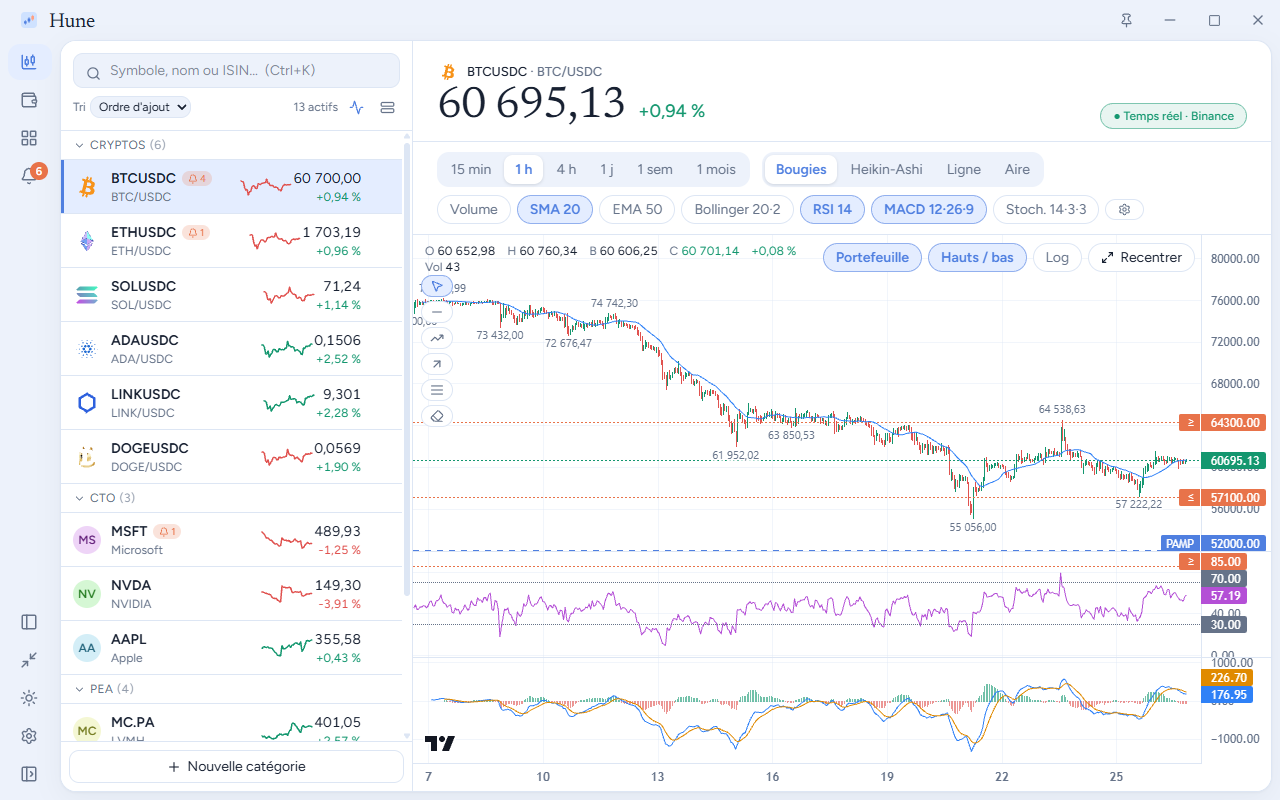
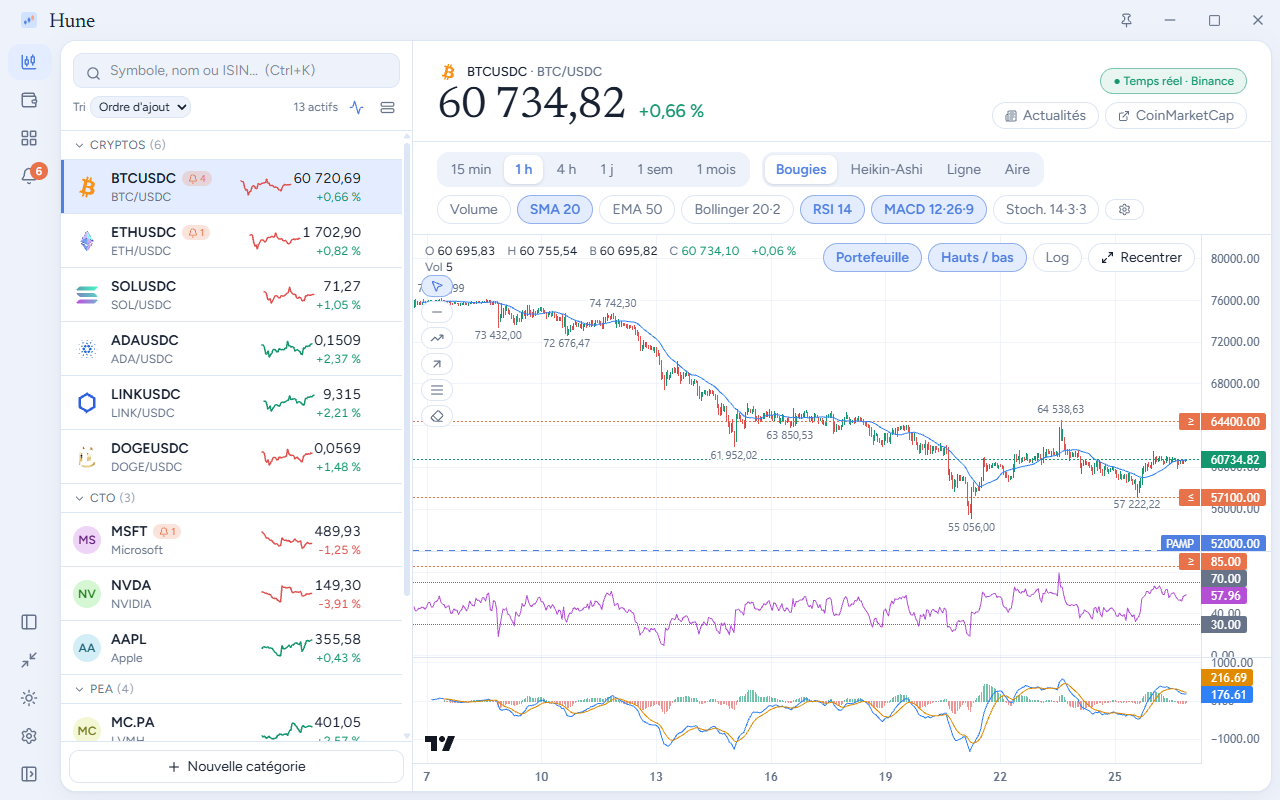
0.11.0 : liens actualites/fiche, alerte TP automatique, nom d'actif plus lisible

diff --git a/src/liens.ts b/src/liens.ts
@@ -1,0 +1,46 @@
+import type { Actif } from "./donnees/types";
+import { baseCrypto } from "./icones";
+
+/**
+ * Liens externes d'un actif. Rien n'est téléchargé : Hune n'ouvre le lien dans le navigateur qu'au clic,
+ * et seul le symbole de l'actif figure dans l'adresse.
+ */
+export interface LienExterne {
+  /** Libellé du bouton. */
+  libelle: string;
+  /** Infobulle : où le lien mène. */
+  aide: string;
+  url: string;
+}
+
+/** Page CoinMarketCap de quelques dizaines de jetons courants (chaque adresse a été vérifiée) ; les autres passent par la recherche CoinGecko. */
+const CMC: Record<string, string> = {
+  BTC: "bitcoin", ETH: "ethereum", BNB: "bnb", SOL: "solana", XRP: "xrp", ADA: "cardano", DOGE: "dogecoin", TRX: "tron", LINK: "chainlink", DOT: "polkadot-new",
+  AVAX: "avalanche", LTC: "litecoin", BCH: "bitcoin-cash", XLM: "stellar", ATOM: "cosmos", UNI: "uniswap", NEAR: "near-protocol", ICP: "internet-computer",
+  SHIB: "shiba-inu", PEPE: "pepe", AAVE: "aave", CRV: "curve-dao-token", ETC: "ethereum-classic", GRT: "the-graph", RENDER: "render", RNDR: "render",
+  SAND: "the-sandbox", SUI: "sui", VET: "vechain", MINA: "mina", NEXO: "nexo", OSMO: "osmosis", POL: "polygon-ecosystem-token", MATIC: "polygon-ecosystem-token",
+  FET: "artificial-superintelligence-alliance", ASI: "artificial-superintelligence-alliance", DYDX: "dydx-chain", EDU: "edu-coin", EGLD: "multiversx-egld",
+  ENS: "ethereum-name-service", ETHFI: "ether-fi-ethfi", STRK: "starknet-token", TRB: "tellor", HBAR: "hedera", CRO: "cronos", APT: "aptos", ARB: "arbitrum",
+  INJ: "injective", MKR: "maker", ALGO: "algorand", FIL: "filecoin", XMR: "monero", EOS: "eos", XTZ: "tezos", THETA: "theta-network", AXS: "axie-infinity",
+  MANA: "decentraland", GALA: "gala", IMX: "immutable-x", LDO: "lido-dao", FTM: "fantom", PYTH: "pyth-network", JUP: "jupiter-ag", BONK: "bonk",
+  WIF: "dogwifhat", FLOKI: "floki", COMP: "compound", AR: "arweave", HNT: "helium",
+};
+
+/** Liens « actualités » et « fiche » d'un actif : Yahoo Finance pour les titres, Yahoo Finance + CoinMarketCap pour les cryptos. */
+export function liensExternes(actif: Pick<Actif, "source" | "symbole" | "nom">): LienExterne[] {
+  const base = baseCrypto(actif);
+  if (base) {
+    const slug = CMC[base];
+    return [
+      { libelle: "Actualités", aide: `Actualités de ${base} sur Yahoo Finance (s'ouvre dans votre navigateur)`, url: `https://finance.yahoo.com/quote/${encodeURIComponent(base)}-USD/news/` },
+      slug
+        ? { libelle: "CoinMarketCap", aide: `Fiche de ${base} sur CoinMarketCap (s'ouvre dans votre navigateur)`, url: `https://coinmarketcap.com/currencies/${slug}/` }
+        : { libelle: "Fiche du jeton", aide: `Rechercher ${base} sur CoinGecko (s'ouvre dans votre navigateur)`, url: `https://www.coingecko.com/en/search?query=${encodeURIComponent(base)}` },
+    ];
+  }
+  const s = encodeURIComponent(actif.symbole);
+  return [
+    { libelle: "Actualités", aide: `Actualités de ${actif.symbole} sur Yahoo Finance (s'ouvre dans votre navigateur)`, url: `https://finance.yahoo.com/quote/${s}/news/` },
+    { libelle: "Fiche", aide: `Fiche de ${actif.symbole} sur Yahoo Finance (s'ouvre dans votre navigateur)`, url: `https://finance.yahoo.com/quote/${s}/` },
+  ];
+}

diff --git a/src/alertes/tp-auto.test.ts b/src/alertes/tp-auto.test.ts
@@ -1,0 +1,51 @@
+import { describe, expect, it } from "vitest";
+import type { Actif } from "../donnees/types";
+import type { Position } from "../portefeuille";
+import type { Alerte } from "./moteur";
+import { synchroniserAlertesTp } from "./tp-auto";
+
+const actif: Actif = { source: "yahoo", symbole: "TTWO", nom: "Take-Two" };
+const cle = "yahoo:TTWO";
+const lot = (objectif?: number, id = "l1"): Position => ({ id, cle, quantite: 1, objectif });
+const prix = () => 227;
+const sync = (avant: Position[], apres: Position[], alertes: Alerte[] = [], p: (c: string) => number | undefined = prix) => synchroniserAlertesTp(avant, apres, alertes, [actif], p, 1000);
+
+describe("alertes TP automatiques", () => {
+  it("crée une alerte « prix ≥ objectif » quand on saisit un objectif au-dessus du prix", () => {
+    const r = sync([lot()], [lot(250)]);
+    expect(r).toHaveLength(1);
+    expect(r[0]).toMatchObject({ statut: "armee", tpLot: "l1", condition: { type: "prix", sens: "au-dessus", seuil: 250 } });
+  });
+
+  it("ne crée rien pour un objectif déjà atteint", () => {
+    expect(sync([lot()], [lot(225)])).toHaveLength(0);
+  });
+
+  it("remplace l'alerte du lot quand l'objectif change, sans toucher aux autres alertes", () => {
+    const manuelle: Alerte = { id: "m", actif, condition: { type: "prix", sens: "en-dessous", seuil: 100 }, statut: "armee", creeeLe: 1 };
+    const premiere = sync([lot()], [lot(250)], [manuelle]);
+    const seconde = sync([lot(250)], [lot(260)], premiere);
+    expect(seconde.map((a) => (a.condition as { seuil: number }).seuil).sort()).toEqual([100, 260]);
+  });
+
+  it("retire l'alerte quand l'objectif est effacé ou le lot supprimé", () => {
+    const avecAlerte = sync([lot()], [lot(250)]);
+    expect(sync([lot(250)], [lot(undefined)], avecAlerte)).toHaveLength(0);
+    expect(sync([lot(250)], [], avecAlerte)).toHaveLength(0);
+  });
+
+  it("garde une alerte déjà déclenchée et évite le doublon avec une alerte manuelle identique", () => {
+    const declenchee: Alerte = { id: "d", actif, condition: { type: "prix", sens: "au-dessus", seuil: 250 }, statut: "declenchee", creeeLe: 1, tpLot: "l1" };
+    expect(sync([lot(250)], [lot(260)], [declenchee]).some((a) => a.id === "d")).toBe(true);
+    const manuelle: Alerte = { id: "m", actif, condition: { type: "prix", sens: "au-dessus", seuil: 250 }, statut: "armee", creeeLe: 1 };
+    expect(sync([lot()], [lot(250)], [manuelle])).toHaveLength(1);
+  });
+
+  it("ne fait rien quand l'objectif ne change pas", () => {
+    expect(sync([lot(250)], [{ ...lot(250), quantite: 5 }])).toHaveLength(0);
+  });
+
+  it("crée l'alerte même si le prix n'est pas encore connu", () => {
+    expect(sync([lot()], [lot(250)], [], () => undefined)).toHaveLength(1);
+  });
+});

diff --git a/src/alertes/tp-auto.ts b/src/alertes/tp-auto.ts
@@ -1,0 +1,37 @@
+import { cleActif, type Actif } from "../donnees/types";
+import type { Position } from "../portefeuille";
+import type { Alerte } from "./moteur";
+
+/**
+ * Alertes créées automatiquement pour les objectifs (TP) du portefeuille.
+ * À chaque modification des positions, l'alerte « prix ≥ objectif » d'un lot suit son objectif :
+ * créée quand on saisit un objectif encore au-dessus du prix, remplacée quand on le change, retirée quand on l'efface
+ * ou qu'on supprime le lot. Seules les alertes encore armées et liées au lot (`tpLot`) sont touchées.
+ * Un objectif déjà atteint ne crée rien (l'alerte se déclencherait aussitôt pour rien), et une alerte manuelle
+ * identique évite le doublon.
+ */
+export function synchroniserAlertesTp(avant: Position[], apres: Position[], alertes: Alerte[], actifs: Actif[], prixDe: (cle: string) => number | undefined, maintenant: number): Alerte[] {
+  const avantParId = new Map(avant.map((p) => [p.id, p]));
+  const apresIds = new Set(apres.map((p) => p.id));
+  let resultat = alertes;
+  const retirer = (lotId: string) => {
+    resultat = resultat.filter((a) => !(a.tpLot === lotId && a.statut === "armee"));
+  };
+
+  for (const lot of avant) if (!apresIds.has(lot.id)) retirer(lot.id);
+
+  for (const lot of apres) {
+    const ancien = avantParId.get(lot.id);
+    if (ancien && ancien.objectif === lot.objectif && ancien.cle === lot.cle) continue;
+    retirer(lot.id);
+    if (lot.objectif == null || !(lot.objectif > 0)) continue;
+    const prix = prixDe(lot.cle);
+    if (prix != null && lot.objectif <= prix) continue;
+    const actif = actifs.find((a) => cleActif(a) === lot.cle);
+    if (!actif) continue;
+    const doublon = resultat.some((a) => a.statut === "armee" && a.condition.type === "prix" && a.condition.sens === "au-dessus" && a.condition.seuil === lot.objectif && cleActif(a.actif) === lot.cle);
+    if (doublon) continue;
+    resultat = [...resultat, { id: crypto.randomUUID(), actif, condition: { type: "prix", sens: "au-dessus", seuil: lot.objectif }, statut: "armee", creeeLe: maintenant, tpLot: lot.id }];
+  }
+  return resultat;
+}

diff --git a/src/entete.tsx b/src/entete.tsx
@@ -1,7 +1,10 @@
+import { ExternalLink, Newspaper } from "lucide-react";
 import { fournisseur } from "./donnees";
 import type { Actif, Cotation } from "./donnees/types";
 import { classePct, formaterPct, formaterPrix } from "./format";
 import { IconeActif } from "./icone-actif";
+import { liensExternes } from "./liens";
+import { ouvrirLien } from "./ouvrir-lien";
 
 /** Bandeau au-dessus du graphique : actif, prix, variation et — surtout — nature des données (temps réel ou différées). */
 export function EnteteActif({ actif, cotation, prixLive }: { actif: Actif; cotation?: Cotation; prixLive: number | null }) {
@@ -21,12 +24,21 @@ export function EnteteActif({ actif, cotation, prixLive }: { actif: Actif; cotat
           <span className={`text-lg font-medium ${classePct(cotation?.variationPct)}`}>{formaterPct(cotation?.variationPct)}</span>
         </div>
       </div>
-      <span
-        title={f.noteDonnees}
-        className={`shrink-0 rounded-full border px-3 py-1 text-xs font-medium ${f.differe ? "border-alerte/50 bg-alerte/10 text-alerte" : "border-hausse/50 bg-hausse/10 text-hausse"}`}
-      >
-        {f.differe ? "● Données différées" : "● Temps réel"} · {f.nom}
-      </span>
+      <div className="flex shrink-0 flex-col items-end gap-2">
+        <span
+          title={f.noteDonnees}
+          className={`shrink-0 rounded-full border px-3 py-1 text-xs font-medium ${f.differe ? "border-alerte/50 bg-alerte/10 text-alerte" : "border-hausse/50 bg-hausse/10 text-hausse"}`}
+        >
+          {f.differe ? "● Données différées" : "● Temps réel"} · {f.nom}
+        </span>
+        <div className="flex gap-1.5">
+          {liensExternes(actif).map((l, i) => (
+            <button key={l.url} className="puce !py-[2px] text-xs" title={l.aide} onClick={() => void ouvrirLien(l.url)}>
+              {i === 0 ? <Newspaper size={12} /> : <ExternalLink size={12} />} {l.libelle}
+            </button>
+          ))}
+        </div>
+      </div>
     </header>
   );
 }

diff --git a/src/App.tsx b/src/App.tsx
@@ -1,6 +1,7 @@
 import { Maximize2 } from "lucide-react";
 import { useCallback, useEffect, useMemo, useRef, useState } from "react";
 import { decrire, type Alerte } from "./alertes/moteur";
+import { synchroniserAlertesTp } from "./alertes/tp-auto";
 import { notifier } from "./alertes/notifier";
 import { PanneauAlertes } from "./alertes/panneau";
 import { useVerificationAlertes } from "./alertes/verification";
@@ -261,7 +262,23 @@ export default function App() {
   }, []);
 
   const changerAlertes = useCallback((modifier: (liste: Alerte[]) => Alerte[]) => setAlertes((prec) => modifier(prec)), []);
-  const changerPositions = useCallback((modifier: (liste: Position[]) => Position[]) => setPositions((prec) => modifier(prec)), []);
+  const positionsRef = useRef<Position[]>([]);
+  positionsRef.current = positions;
+  const cotationsRef = useRef<Record<string, Cotation>>({});
+  cotationsRef.current = cotations;
+  const actifsRef = useRef<Actif[]>([]);
+  actifsRef.current = actifs;
+  /** Modifie les positions ; l'alerte « prix ≥ objectif » de chaque lot suit son objectif (voir `synchroniserAlertesTp`). */
+  const changerPositions = useCallback(
+    (modifier: (liste: Position[]) => Position[]) => {
+      const avant = positionsRef.current;
+      const apres = modifier(avant);
+      positionsRef.current = apres;
+      setPositions(apres);
+      changerAlertes((l) => synchroniserAlertesTp(avant, apres, l, actifsRef.current, (cle) => cotationsRef.current[cle]?.prix, Date.now()));
+    },
+    [changerAlertes],
+  );
 
   // Déclenchement : l'alerte passe à « déclenchée » (elle ne se redéclenchera pas) et on notifie.
   const declencher = useCallback(

diff --git a/src/liens.test.ts b/src/liens.test.ts
@@ -1,0 +1,25 @@
+import { describe, expect, it } from "vitest";
+import { liensExternes } from "./liens";
+
+describe("liensExternes", () => {
+  it("action Yahoo : actualités et fiche Yahoo Finance, symbole encodé", () => {
+    const l = liensExternes({ source: "yahoo", symbole: "MC.PA", nom: "LVMH" });
+    expect(l.map((x) => x.url)).toEqual(["https://finance.yahoo.com/quote/MC.PA/news/", "https://finance.yahoo.com/quote/MC.PA/"]);
+  });
+
+  it("crypto Binance connue : actualités Yahoo (BASE-USD) et fiche CoinMarketCap", () => {
+    const l = liensExternes({ source: "binance", symbole: "FETUSDC", nom: "FET/USDC" });
+    expect(l[0].url).toBe("https://finance.yahoo.com/quote/FET-USD/news/");
+    expect(l[1]).toMatchObject({ libelle: "CoinMarketCap", url: "https://coinmarketcap.com/currencies/artificial-superintelligence-alliance/" });
+  });
+
+  it("crypto inconnue : recherche CoinGecko à défaut de fiche", () => {
+    const l = liensExternes({ source: "binance", symbole: "ZZZUSDC", nom: "ZZZ/USDC" });
+    expect(l[1].url).toBe("https://www.coingecko.com/en/search?query=ZZZ");
+  });
+
+  it("crypto Yahoo (BTC-USD) traitée comme une crypto", () => {
+    const l = liensExternes({ source: "yahoo", symbole: "BTC-USD", nom: "Bitcoin USD" });
+    expect(l[1].url).toBe("https://coinmarketcap.com/currencies/bitcoin/");
+  });
+});

diff --git a/src/vue-portefeuille.tsx b/src/vue-portefeuille.tsx
@@ -583,10 +583,12 @@ function LigneTableau({ taux, l, m, ouverte, surBascule, surOuvrir, majLot, supp
           </span>
           <button className="bg-transparent p-0 font-semibold text-texte hover:text-accent" title="Voir le graphique" onClick={surOuvrir}>
             {l.actif.symbole}
-          </button>{" "}
-          <span className="inline-block max-w-[170px] truncate align-bottom text-xs text-doux" title={l.actif.nom}>
-            {l.actif.nom}
-          </span>
+          </button>
+          {!/^[A-Z0-9]+\/[A-Z0-9]+$/.test(l.actif.nom) && (
+            <span className="ml-2 inline-block max-w-[210px] truncate align-bottom text-doux" title={l.actif.nom}>
+              {l.actif.nom}
+            </span>
+          )}
           {l.lots.length > 1 && <span className="ml-1 text-xs text-doux">({l.lots.length} lots)</span>}
         </td>
         <td className="whitespace-nowrap px-2 text-right font-mono">

diff --git a/src/ouvrir-lien.ts b/src/ouvrir-lien.ts
@@ -1,0 +1,11 @@
+import { dansTauri } from "./donnees/http";
+
+/** Ouvre une adresse dans le navigateur par défaut (application) ou dans un nouvel onglet (mode web de développement). */
+export async function ouvrirLien(url: string): Promise<void> {
+  if (dansTauri()) {
+    const { openUrl } = await import("@tauri-apps/plugin-opener");
+    await openUrl(url);
+  } else {
+    window.open(url, "_blank", "noopener,noreferrer");
+  }
+}

diff --git a/src/alertes/moteur.ts b/src/alertes/moteur.ts
@@ -29,6 +29,8 @@ export interface Alerte {
   declencheeLe?: number;
   /** Valeur mesurée au déclenchement (prix, % ou RSI), affichée dans la liste. */
   valeur?: number;
+  /** Alerte créée automatiquement pour l'objectif (TP) de ce lot du portefeuille : elle suit l'objectif. */
+  tpLot?: string;
 }
 
 /** Données dont l'évaluation a besoin ; seules celles de la condition sont lues. */

diff --git a/src-tauri/src/lib.rs b/src-tauri/src/lib.rs
@@ -139,6 +139,7 @@ pub fn run() {
         .plugin(tauri_plugin_http::init())
         .plugin(tauri_plugin_updater::Builder::new().build())
         .plugin(tauri_plugin_process::init())
+        .plugin(tauri_plugin_opener::init())
         .invoke_handler(tauri::generate_handler![lister_sauvegardes, lire_sauvegarde, donnees_presentes])
         .on_window_event(|fenetre, evenement| {
             // Croix de la fenêtre : on la masque, l'application reste dans la zone de notification.

diff --git a/README.md b/README.md
@@ -54,7 +54,7 @@ Prix, variation en %, RSI, cours qui franchit une moyenne mobile, croisement MAC
 
 ### Portefeuille
 
-Saisissez vos lots (quantité, prix d'achat moyen, objectif, plateforme) : Hune calcule la **valeur en euros ou en dollars** (bascule d'un clic, choix mémorisé, conversion des devises), le **P&L latent**, le poids de chaque ligne, la distance à l'objectif et la répartition par catégorie et par plateforme. Un bouton crée les alertes aux objectifs en un clic. Vous avez un historique d'achats et de ventes (export CoinMarketCap, courtier, exchange) ? **Importez le CSV** : Hune reconstitue quantités et prix d'achat moyens, et vous montre le résultat avant d'écrire quoi que ce soit.
+Saisissez vos lots (quantité, prix d'achat moyen, objectif, plateforme) : Hune calcule la **valeur en euros ou en dollars** (bascule d'un clic, choix mémorisé, conversion des devises), le **P&L latent**, le poids de chaque ligne, la distance à l'objectif et la répartition par catégorie et par plateforme. Chaque objectif crée tout seul son alerte « prix ≥ objectif » (elle suit l'objectif si vous le modifiez), et un bouton crée celles des objectifs déjà saisis. Le PAMP et l'objectif se saisissent en euros ou en dollars, quelle que soit la devise de cotation de l'actif. Vous avez un historique d'achats et de ventes (export CoinMarketCap, courtier, exchange) ? **Importez le CSV** : Hune reconstitue quantités et prix d'achat moyens, et vous montre le résultat avant d'écrire quoi que ce soit.
 
 Un **graphique de l'évolution de la valeur** (24 h à tout l'historique, reconstitué localement à partir de vos transactions et des cours), la variation du jour, la **base de coût**, la meilleure et la moins bonne performance, un **filtre par plateforme** (Ledger, PEA, exchange…) et un onglet **Transactions** (avec le **gain réalisé** de chaque vente) complètent la vue ; répartition en **camembert**, et **export CSV** des positions et des transactions pour Excel. Les cryptos s'affichent avec leur **icône**, embarquée dans l'application : aucune image n'est téléchargée, donc rien ne révèle ce que vous suivez.
 
@@ -117,7 +117,7 @@ Vous avez déjà vos positions dans un tableur ? Voir [`scripts/importer-excel.p
 
 ## Confidentialité et réseau
 
-Hune ne contacte que des services publics de données, **sans jamais leur envoyer d'information vous concernant** : Binance (prix crypto), Yahoo Finance (actions et devises), alternative.me (indice Fear & Greed) et GitHub (recherche de mises à jour). Vos données sont dans `%APPDATA%\io.github.nestyxx.hune\hune.json`. Détails dans [SECURITY.md](SECURITY.md).
+Hune ne contacte que des services publics de données, **sans jamais leur envoyer d'information vous concernant** : Binance (prix crypto), Yahoo Finance (actions et devises), alternative.me (indice Fear & Greed) et GitHub (recherche de mises à jour). Les boutons **Actualités** et **CoinMarketCap / Fiche** au-dessus du graphique n'envoient rien d'eux-mêmes : ils ouvrent la page de l'actif (Yahoo Finance, CoinMarketCap, CoinGecko) dans votre navigateur, seulement quand vous cliquez, avec le symbole pour seule information. Vos données sont dans `%APPDATA%\io.github.nestyxx.hune\hune.json`. Détails dans [SECURITY.md](SECURITY.md).
 
 ## Limites à connaître
 

diff --git a/CHANGELOG.md b/CHANGELOG.md
@@ -3,6 +3,15 @@
 Toutes les évolutions notables de Hune. Format inspiré de [Keep a Changelog](https://keepachangelog.com/fr/1.1.0/) ; les versions suivent [SemVer](https://semver.org/lang/fr/).
 Le texte de chaque version sert de notes pour la release GitHub (`scripts/publier.ps1`).
 
+## [0.11.0] - 2026-11-26
+
+### Ajouté
+- **Actualités et fiche de l'actif** : deux boutons au-dessus du graphique ouvrent, dans votre navigateur, les actualités de l'actif (Yahoo Finance) et sa fiche (CoinMarketCap pour une cinquantaine de cryptos courantes, CoinGecko en recherche pour les autres, Yahoo Finance pour les actions). Rien n'est chargé par Hune : le lien ne s'ouvre qu'au clic, et seul le symbole figure dans l'adresse. Nouveau composant `tauri-plugin-opener`, limité à ces trois sites.
+- **Alerte automatique pour chaque objectif (TP)** : saisir ou modifier l'objectif d'un lot crée l'alerte « prix ≥ objectif » correspondante (visible sur le graphique, notification au franchissement). Elle suit l'objectif si vous le changez et disparaît si vous l'effacez ou supprimez le lot ; un objectif déjà atteint ou une alerte identique déjà armée n'en crée pas. Le bouton « Alertes aux objectifs » reste disponible pour les objectifs déjà saisis.
+
+### Modifié
+- **Portefeuille** : le nom de l'actif s'affiche à côté du symbole en texte normal, grisé et tronqué, au lieu d'un petit indice ; il est omis pour les paires crypto où il répéterait le symbole (BTC/USDC).
+
 ## [0.10.3] - 2026-11-26
 
 ### Ajouté
